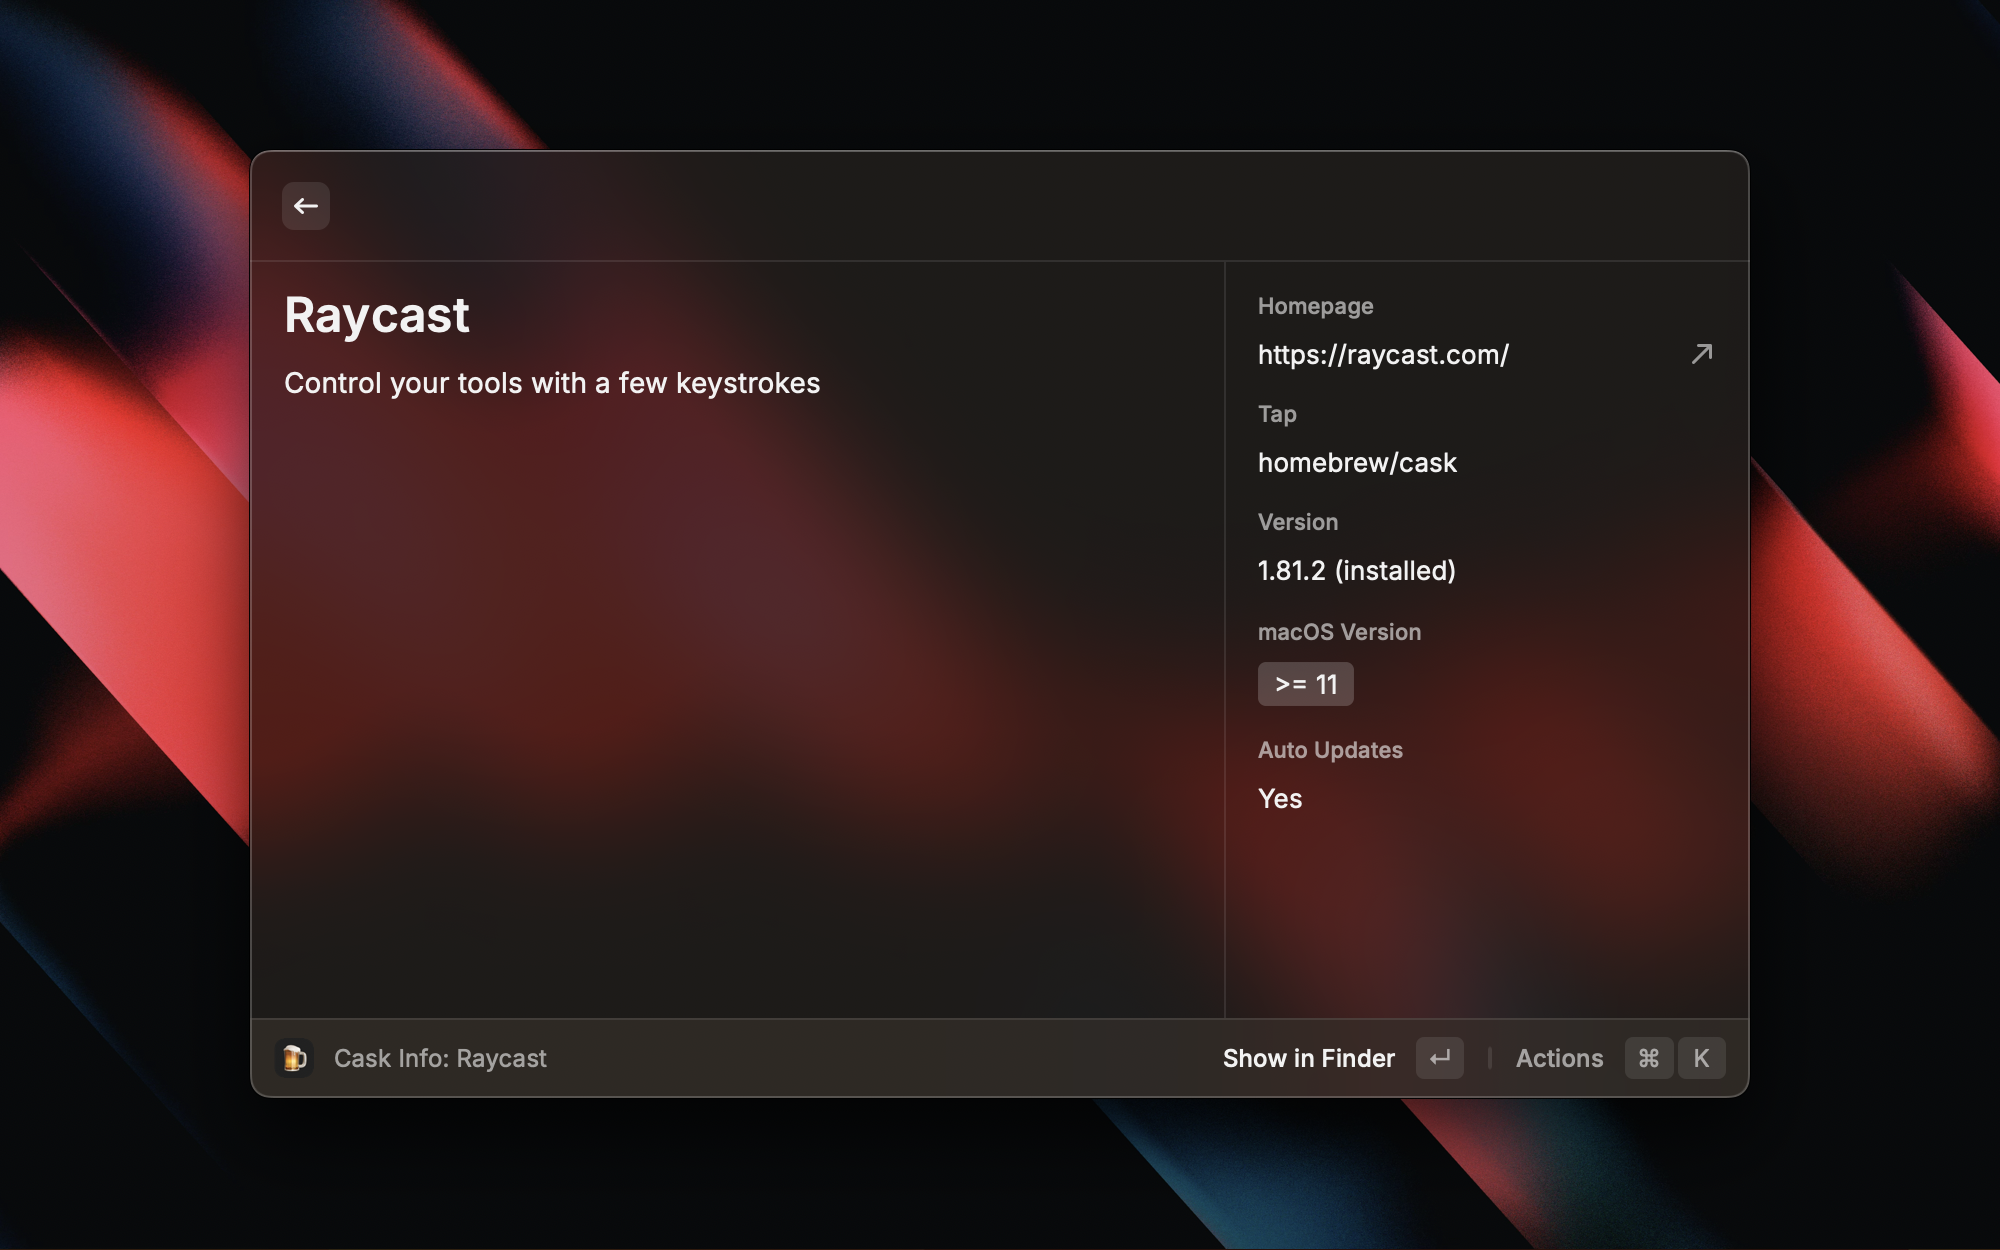
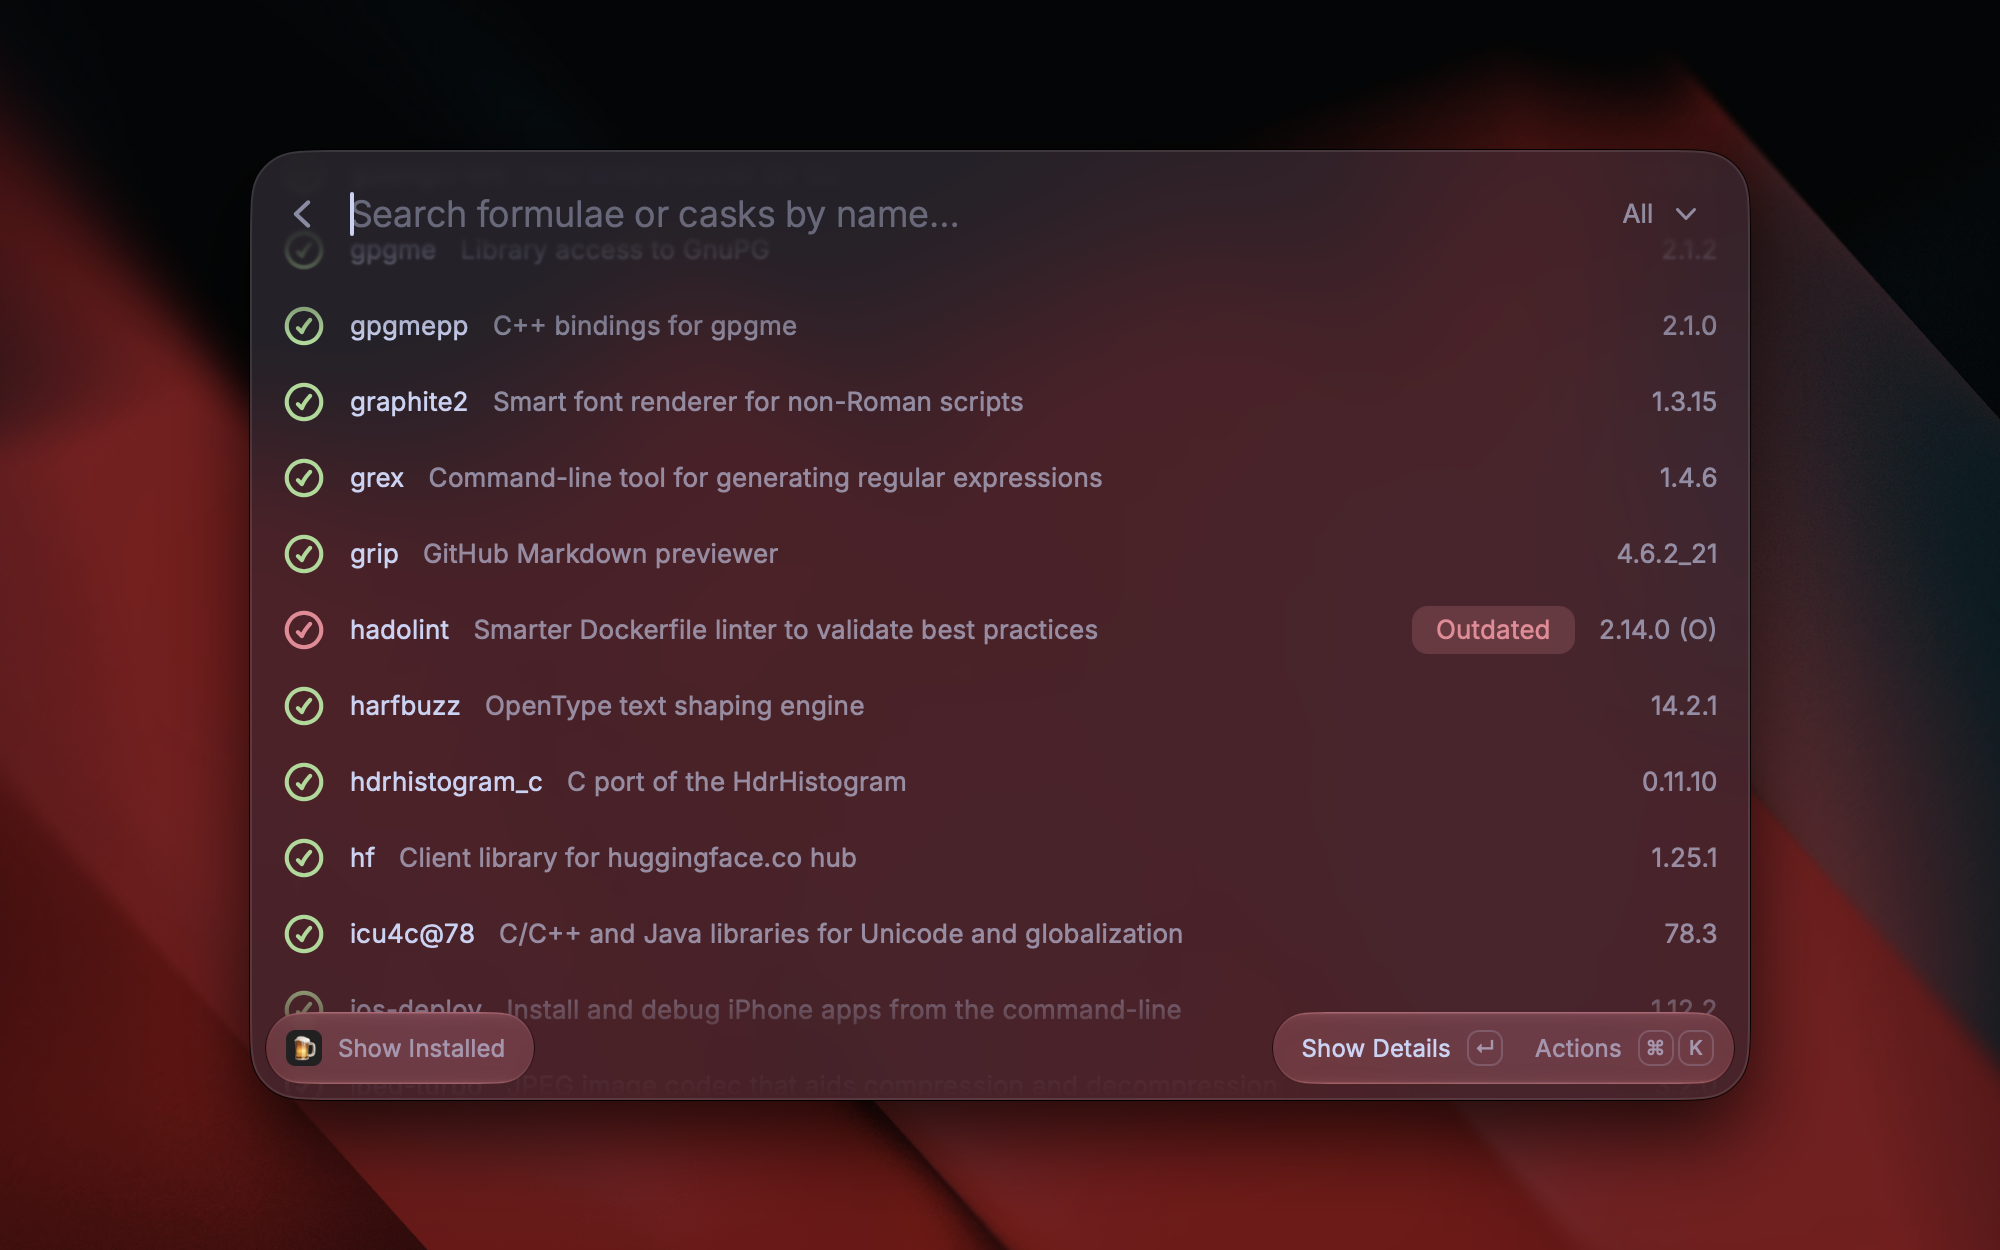
feat(brew): show pinned section, outdated tags and detail pane in Show Installed (#29943)
* feat(brew): show pinned section, outdated tags and detail pane in Show Installed

* fix(brew): append Toggle Details after existing actions to preserve ordering

* Update CHANGELOG.md and optimise images

---------

diff --git a/src/components/list.tsx b/src/components/list.tsx
@@ -14,6 +14,7 @@ export interface FormulaListProps {
   isLoading: boolean;
   formulae: Formula[];
   casks: Cask[];
+  pinnedFormulae?: Formula[];
   searchBarPlaceholder: string;
   searchBarAccessory?: React.ComponentProps<typeof List>["searchBarAccessory"];
   searchText?: string;
@@ -23,12 +24,14 @@ export interface FormulaListProps {
   filtering?: boolean;
   dataFetched?: boolean;
   showMetadataPanel?: boolean;
+  onToggleDetails?: () => void;
 }
 
 export function FormulaList(props: FormulaListProps) {
   const formulae = props.formulae;
   const casks = props.casks;
-  const hasResults = formulae.length > 0 || casks.length > 0;
+  const pinnedFormulae = props.pinnedFormulae ?? [];
+  const hasResults = formulae.length > 0 || casks.length > 0 || pinnedFormulae.length > 0;
   const showMetadataPanel = props.showMetadataPanel ?? false;
 
   return (
@@ -61,6 +64,7 @@ export function FormulaList(props: FormulaListProps) {
               isInstalled={props.isInstalled}
               onAction={props.onAction}
               showMetadataPanel={showMetadataPanel}
+              onToggleDetails={props.onToggleDetails}
             />
           ))}
           {formulae.isTruncated() && <MoreListItem />}
@@ -75,9 +79,24 @@ export function FormulaList(props: FormulaListProps) {
               isInstalled={props.isInstalled}
               onAction={props.onAction}
               showMetadataPanel={showMetadataPanel}
+              onToggleDetails={props.onToggleDetails}
             />
           ))}
           {casks.isTruncated() && <MoreListItem />}
+        </List.Section>
+      )}
+      {pinnedFormulae.length > 0 && (
+        <List.Section title="Pinned Formulae" subtitle={`${pinnedFormulae.length}`}>
+          {pinnedFormulae.map((formula) => (
+            <FormulaListItem
+              key={`pinned-formula-${formula.name}`}
+              formula={formula}
+              isInstalled={props.isInstalled}
+              onAction={props.onAction}
+              showMetadataPanel={showMetadataPanel}
+              onToggleDetails={props.onToggleDetails}
+            />
+          ))}
         </List.Section>
       )}
     </List>
@@ -89,6 +108,7 @@ export function FormulaListItem(props: {
   isInstalled: (name: string) => boolean;
   onAction: () => void;
   showMetadataPanel?: boolean;
+  onToggleDetails?: () => void;
 }) {
   const formula = props.formula;
   const showMetadataPanel = props.showMetadataPanel ?? false;
@@ -105,12 +125,17 @@ export function FormulaListItem(props: {
   }
 
   const icon = { source: iconMark, tintColor: tintColor };
+  const accessories: List.Item.Accessory[] = [];
+  if (brewIsInstalled(formula) && formula.outdated) {
+    accessories.push({ tag: { value: "Outdated", color: Color.Red } });
+  }
+  accessories.push({ text: version });
 
   return (
     <List.Item
       title={formula.name}
       subtitle={showMetadataPanel ? undefined : formula.desc}
-      accessories={showMetadataPanel ? undefined : [{ text: version }]}
+      accessories={showMetadataPanel ? undefined : accessories}
       icon={tooltip ? { value: icon, tooltip } : icon}
       detail={
         showMetadataPanel ? <FormulaListItemDetail formula={formula} isInstalled={props.isInstalled} /> : undefined
@@ -121,6 +146,7 @@ export function FormulaListItem(props: {
           showDetails={!showMetadataPanel}
           isInstalled={props.isInstalled}
           onAction={props.onAction}
+          onToggleDetails={props.onToggleDetails}
         />
       }
     />
@@ -132,6 +158,7 @@ export function CaskListItem(props: {
   isInstalled: (name: string) => boolean;
   onAction: () => void;
   showMetadataPanel?: boolean;
+  onToggleDetails?: () => void;
 }) {
   const cask = props.cask;
   const showMetadataPanel = props.showMetadataPanel ?? false;
@@ -148,12 +175,17 @@ export function CaskListItem(props: {
   }
 
   const icon = { source: iconMark, tintColor: tintColor };
+  const accessories: List.Item.Accessory[] = [];
+  if (brewIsInstalled(cask) && cask.outdated) {
+    accessories.push({ tag: { value: "Outdated", color: Color.Red } });
+  }
+  accessories.push({ text: version });
 
   return (
     <List.Item
       title={brewName(cask)}
       subtitle={showMetadataPanel ? undefined : cask.desc}
-      accessories={showMetadataPanel ? undefined : [{ text: version }]}
+      accessories={showMetadataPanel ? undefined : accessories}
       icon={tooltip ? { value: icon, tooltip } : icon}
       detail={showMetadataPanel ? <CaskListItemDetail cask={cask} isInstalled={props.isInstalled} /> : undefined}
       actions={
@@ -162,6 +194,7 @@ export function CaskListItem(props: {
           showDetails={!showMetadataPanel}
           isInstalled={props.isInstalled}
           onAction={props.onAction}
+          onToggleDetails={props.onToggleDetails}
         />
       }
     />

diff --git a/src/components/actionPanels.tsx b/src/components/actionPanels.tsx
@@ -15,6 +15,15 @@ import * as Actions from "./actions";
 import { CaskInfo } from "./caskInfo";
 import { FormulaInfo } from "./formulaInfo";
 
+const ToggleDetailsAction = (props: { onToggleDetails: () => void }) => (
+  <Action
+    title="Toggle Details"
+    icon={Icon.AppWindowSidebarRight}
+    shortcut={{ modifiers: ["cmd", "shift"], key: "d" }}
+    onAction={props.onToggleDetails}
+  />
+);
+
 const DebugSection = (props: { obj: Cask | Formula }) => (
   <ActionPanel.Section>
     <Action.Push
@@ -44,6 +53,7 @@ export function CaskActionPanel(props: {
   showDetails: boolean;
   isInstalled: (name: string) => boolean;
   onAction: (result: boolean) => void;
+  onToggleDetails?: () => void;
 }) {
   const { cask } = props;
   const { terminalName, terminalIcon, runCommandInTerminal } = useTerminalApp();
@@ -61,6 +71,7 @@ export function CaskActionPanel(props: {
           )}
           {cask.outdated && <Actions.FormulaUpgradeAction formula={cask} onAction={props.onAction} />}
           <Action.ShowInFinder path={brewInstallPath(cask)} />
+          {props.onToggleDetails && <ToggleDetailsAction onToggleDetails={props.onToggleDetails} />}
         </ActionPanel.Section>
         <ActionPanel.Section>
           <Action.OpenInBrowser
@@ -124,6 +135,7 @@ export function CaskActionPanel(props: {
             />
           )}
           <Actions.FormulaInstallAction formula={cask} onAction={props.onAction} />
+          {props.onToggleDetails && <ToggleDetailsAction onToggleDetails={props.onToggleDetails} />}
         </ActionPanel.Section>
         <ActionPanel.Section>
           <Action.CopyToClipboard title="Copy Cask ID" content={cask.token} shortcut={Keyboard.Shortcut.Common.Copy} />
@@ -180,6 +192,7 @@ export function FormulaActionPanel(props: {
   showDetails: boolean;
   isInstalled: (name: string) => boolean;
   onAction: (result: boolean) => void;
+  onToggleDetails?: () => void;
 }) {
   const { formula } = props;
   const { terminalName, terminalIcon, runCommandInTerminal } = useTerminalApp();
@@ -199,6 +212,7 @@ export function FormulaActionPanel(props: {
           <Action.ShowInFinder path={brewInstallPath(formula)} />
           <Actions.FormulaPinAction formula={formula} onAction={props.onAction} />
           <Actions.FormulaShowAllInstalled onAction={props.onAction} />
+          {props.onToggleDetails && <ToggleDetailsAction onToggleDetails={props.onToggleDetails} />}
         </ActionPanel.Section>
         <ActionPanel.Section>
           <Action.OpenInBrowser
@@ -257,6 +271,7 @@ export function FormulaActionPanel(props: {
             />
           )}
           <Actions.FormulaInstallAction formula={formula} onAction={props.onAction} />
+          {props.onToggleDetails && <ToggleDetailsAction onToggleDetails={props.onToggleDetails} />}
         </ActionPanel.Section>
         <ActionPanel.Section>
           <Action.CopyToClipboard

diff --git a/src/installed.tsx b/src/installed.tsx
@@ -14,17 +14,19 @@ import { showInstalledPackages } from "./utils/installed";
 
 function InstalledContent() {
   const [filter, setFilter] = useState(InstallableFilterType.all);
+  const [showMetadataPanel, setShowMetadataPanel] = useState(false);
   const { isLoading, data: installed, revalidate } = useBrewInstalled();
   const [excludeDependencies] = useBrewDependencies();
-  const { formulae, casks } = showInstalledPackages(installed, filter, excludeDependencies);
+  const { formulae, pinnedFormulae, casks } = showInstalledPackages(installed, filter, excludeDependencies);
 
   // Log rendering statistics
   if (installed && !isLoading) {
     uiLogger.log("Installed view rendered", {
       filter,
       formulaeDisplayed: formulae.length,
+      pinnedFormulaeDisplayed: pinnedFormulae.length,
       casksDisplayed: casks.length,
-      totalDisplayed: formulae.length + casks.length,
+      totalDisplayed: formulae.length + pinnedFormulae.length + casks.length,
       totalAvailable: (installed.formulae?.size ?? 0) + (installed.casks?.size ?? 0),
     });
   }
@@ -35,11 +37,14 @@ function InstalledContent() {
   return (
     <FormulaList
       formulae={formulae}
+      pinnedFormulae={pinnedFormulae}
       casks={casks}
       searchBarPlaceholder={searchBarPlaceholder}
       searchBarAccessory={<InstallableFilterDropdown onSelect={setFilter} />}
       isLoading={isLoading}
       dataFetched={installed !== undefined}
+      showMetadataPanel={showMetadataPanel}
+      onToggleDetails={() => setShowMetadataPanel((current) => !current)}
       isInstalled={(name) => isInstalled(name, installed)}
       onAction={() => {
         uiLogger.log("Revalidating installed packages");

diff --git a/src/utils/installed.ts b/src/utils/installed.ts
@@ -6,15 +6,20 @@ export const showInstalledPackages = (
   filter: InstallableFilterType,
   excludeDependencies: boolean,
 ) => {
-  const formulae =
+  const allFormulae =
     filter !== InstallableFilterType.casks && installed?.formulae instanceof Map
       ? Array.from(installed.formulae.values())
       : [];
+  const formulae = excludeDependencies
+    ? allFormulae.filter((formula) => formula.installed.some((version) => version.installed_on_request))
+    : allFormulae;
 
   return {
-    formulae: excludeDependencies
-      ? formulae.filter((formula) => formula.installed.some((version) => version.installed_on_request))
-      : formulae,
+    formulae: formulae.filter((formula) => !formula.pinned),
+    // Split from the pre-dependency-filter array: a pin is an explicit user
+    // decision, so a pinned dependency must stay visible even when
+    // "Exclude Dependencies" is on.
+    pinnedFormulae: allFormulae.filter((formula) => formula.pinned),
     casks:
       filter !== InstallableFilterType.formulae && installed?.casks instanceof Map
         ? Array.from(installed.casks.values())

diff --git a/CHANGELOG.md b/CHANGELOG.md
@@ -1,5 +1,12 @@
 # Brew Changelog
 
+## [Pin visibility, outdated tags, detail pane] - 2026-08-04
+
+- Show Installed: pinned formulae now render in their own "Pinned Formulae" section at the bottom of the list, with the count as the section subtitle, instead of sitting unlabelled among the other formulae
+- Installed packages with an available update now carry an `Outdated` tag — formulae and casks both. The list component is shared, so the tag also appears for installed-and-outdated packages in Search results
+- Show Installed: ⌘⇧D toggles a metadata detail pane for the selected package
+- A list of nothing but pinned formulae no longer reports itself as empty
+
 ## [Bug fix] - 2026-08-03
 
 - Fixed "Show Installed" listing no packages on every open after the first. The installed-package lookups are `Map`s, which serialise to `{}`, so the cached value was emptied on write and then re-served empty forever. The serialisable form is cached now and the lookups are rebuilt on read; cache entries written by earlier versions are discarded rather than trusted.
